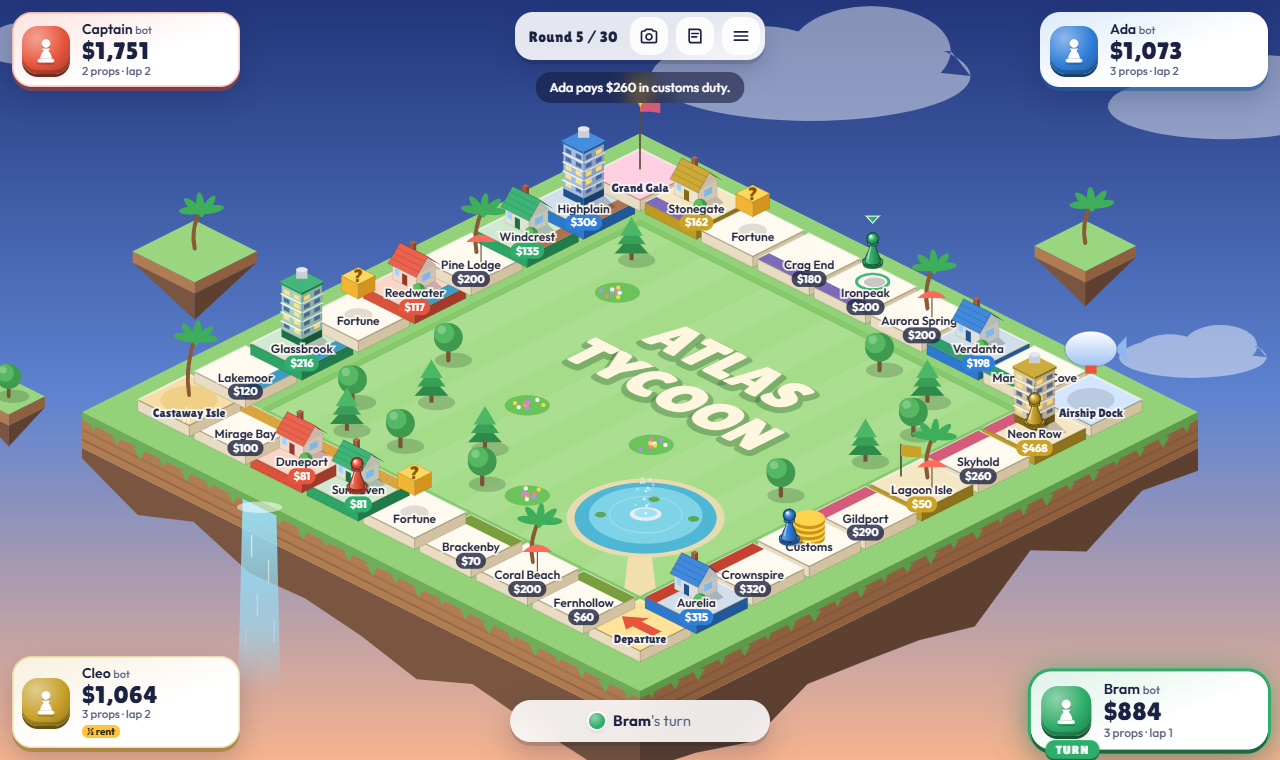
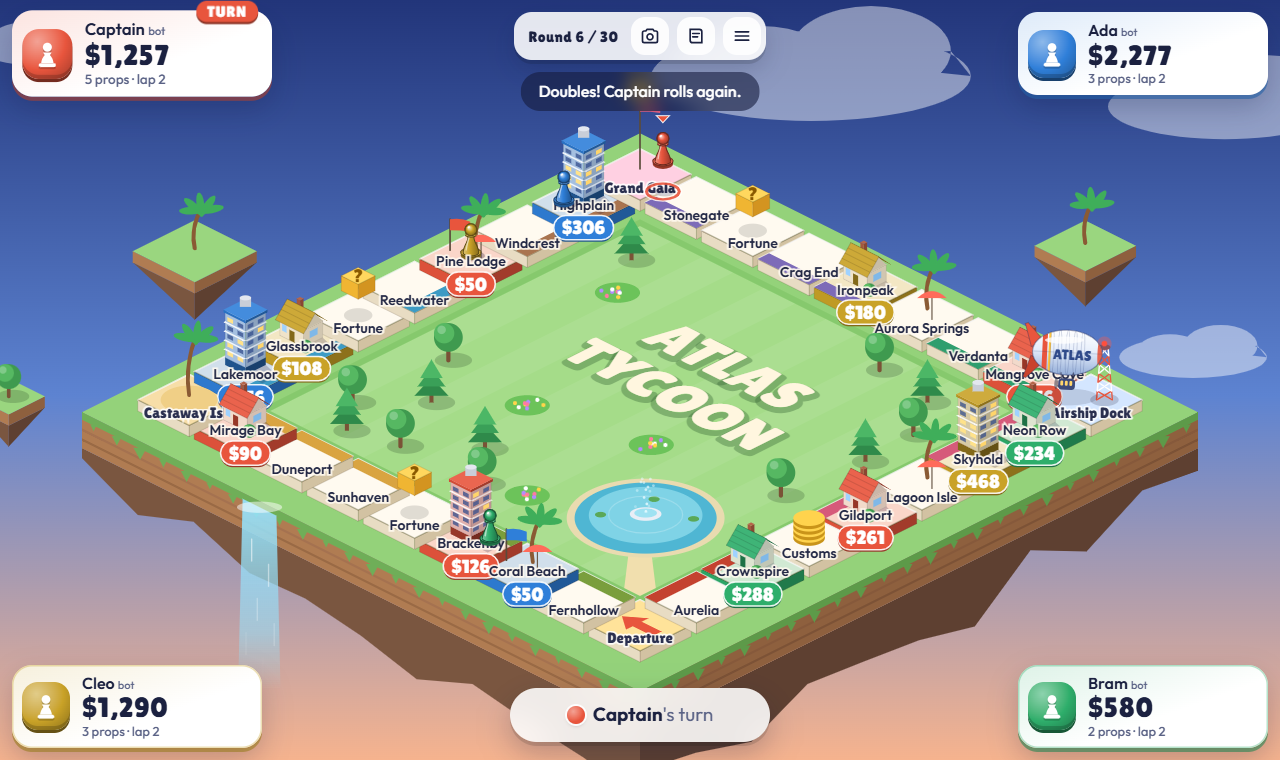
Larger popups and text; board shows rents only
- Decision cards, options, buttons, fortune cards, status strip,
  ticker, player cards, tile info and game over all use larger type
- City names on the board are a little bigger
- Unowned cities and resorts no longer show a price on the board;
  owned ones show the rent a visitor pays (prices stay in the tile card)
- Refreshed README screenshot

diff --git a/css/style.css b/css/style.css
@@ -540,3 +540,86 @@ input, select {
   100% { transform: scaleX(0); background: #e5321f; }
 }
 .chip:has(.chip-timer) { padding-bottom: 16px; }
+
+/* ==========================================================================
+   Larger, more legible popups and HUD text
+   ========================================================================== */
+body { font-size: 16px; }
+.btn { font-size: 17px; padding: 12px 18px; border-radius: 16px; }
+.btn small { font-size: 14px; }
+.decide { width: min(500px, 100%); padding: 24px; gap: 16px; }
+.deed { margin: -24px -24px 0; padding: 20px 24px 18px; }
+.deed small { font-size: 13px; }
+.deed h2 { font-size: 46px; }
+.deed span { font-size: 16px; }
+.decide .ask p { font-size: 20px; line-height: 1.35; }
+.decide .small { font-size: 16px; }
+.decide .hint { font-size: 15px; }
+.decide .cash-left { font-size: 17px; }
+.decide .btns .btn { font-size: 19px; padding: 14px 18px; }
+.decide .btns .btn.big { font-size: 28px; padding: 18px; }
+.opt { padding: 14px 18px; border-radius: 18px; grid-template-columns: 40px 1fr auto; column-gap: 14px; }
+.lvl-icon { width: 36px; height: 36px; }
+.opt-name { font-size: 19px; }
+.opt-rent { font-size: 15px; }
+.opt-cost { font-size: 30px; }
+.roll-card small { font-size: 13px; }
+.roll-card h2 { font-size: 36px; }
+.roll-card .avatar { width: 76px; height: 76px; border-radius: 24px; }
+.roll-card .avatar svg { width: 44px; height: 44px; }
+.roll-card .mini-dice span { width: 54px; height: 54px; }
+
+.fortune { width: min(400px, 86%); padding: 32px 26px 30px; gap: 8px; }
+.fortune .eyebrow { font-size: 13px; }
+.card-icon { width: 92px; height: 92px; border-radius: 28px; }
+.card-icon svg { width: 54px; height: 54px; }
+.fortune h3 { font-size: 40px; }
+.fortune p { font-size: 20px; line-height: 1.35; }
+
+.action { padding: 13px 26px; max-width: min(560px, calc(100% - 520px)); }
+.action .wait, .pick-text { font-size: 19px; }
+.action .wait .pawn-dot { width: 18px; height: 18px; }
+.ticker { font-size: 16px; padding: 8px 18px; }
+.turn-banner { font-size: 40px; }
+
+.chip { width: 250px; }
+.chip-name { font-size: 16px; }
+.chip-cash { font-size: 28px; }
+.chip-meta { font-size: 13px; }
+.badge { font-size: 12px; padding: 2px 7px; }
+.turn-tag { font-size: 14px; }
+
+.info { width: 300px; font-size: 15px; }
+.deed.mini h3 { font-size: 26px; }
+.info table { font-size: 14px; }
+.info th { font-size: 13px; }
+
+.over-panel h2 { font-size: 52px; }
+.standings li { font-size: 18px; padding: 12px 14px; }
+.journal ol { font-size: 15px; }
+.journal h3 { font-size: 24px; }
+
+@media (max-width: 900px) {
+  .action { max-width: calc(100% - 24px); }
+  .chip { width: 220px; }
+}
+@media (max-width: 640px) {
+  .decide { padding: 18px; }
+  .deed { margin: -18px -18px 0; padding: 16px 18px 14px; }
+  .deed h2 { font-size: 34px; }
+  .decide .ask p { font-size: 18px; }
+  .opt { padding: 12px 14px; }
+  .opt-name { font-size: 17px; }
+  .opt-cost { font-size: 25px; }
+  .decide .btns .btn.big { font-size: 24px; }
+  .roll-card h2 { font-size: 28px; }
+  .fortune h3 { font-size: 30px; }
+  .fortune p { font-size: 17px; }
+  .chip { width: calc(50% - 16px); }
+  .chip-name { font-size: 13px; }
+  .chip-cash { font-size: 20px; }
+  .action .wait, .pick-text { font-size: 16px; }
+  .ticker { font-size: 13px; }
+  .turn-banner { font-size: 28px; }
+  .info { width: 250px; font-size: 14px; }
+}

diff --git a/js/render.js b/js/render.js
@@ -1146,7 +1146,7 @@
       const [sx, sy] = this.P(cx + 0.24, cy + 0.24, z);
       const big = this.TW >= 58;
       const name = this.nameOf ? this.nameOf(t.id) : t.name;
-      const fs = Math.max(8, Math.min(14, this.TW * 0.11));
+      const fs = Math.max(9, Math.min(16, this.TW * 0.125));
       const pf = Math.max(11, Math.min(20, this.TW * 0.165));
       if (t.id % 8 === 0) {
         if (big) {
@@ -1162,16 +1162,18 @@
       }
       let value = null;
       // On small boards only rents are shown; prices are one tap away in the tile card.
-      if (t.type === 'city' || t.type === 'resort') value = owner ? g.rent(t) : this.TW >= 42 ? t.price : null;
+      // Only owned properties show a number: the rent a visitor pays. Prices live in the tile card.
+      if ((t.type === 'city' || t.type === 'resort') && owner) value = g.rent(t);
       const pillY = big ? sy + pf * 0.62 : sy;
+      const nameY = value != null ? sy - pf * 0.55 : sy;
       if (big) {
         c.lineWidth = 3;
         c.strokeStyle = 'rgba(255,250,240,0.9)';
         c.font = `600 ${Math.round(fs)}px ${this.fonts.body}`;
         c.textAlign = 'center';
         c.textBaseline = 'middle';
-        c.strokeText(name, sx, sy - pf * 0.55);
-        this.text(name, sx, sy - pf * 0.55, fs, '#232845', this.fonts.body, 600);
+        c.strokeText(name, sx, nameY);
+        this.text(name, sx, nameY, fs, '#232845', this.fonts.body, 600);
       }
       if (value != null) {
         const label = '$' + value.toLocaleString('en-US');
